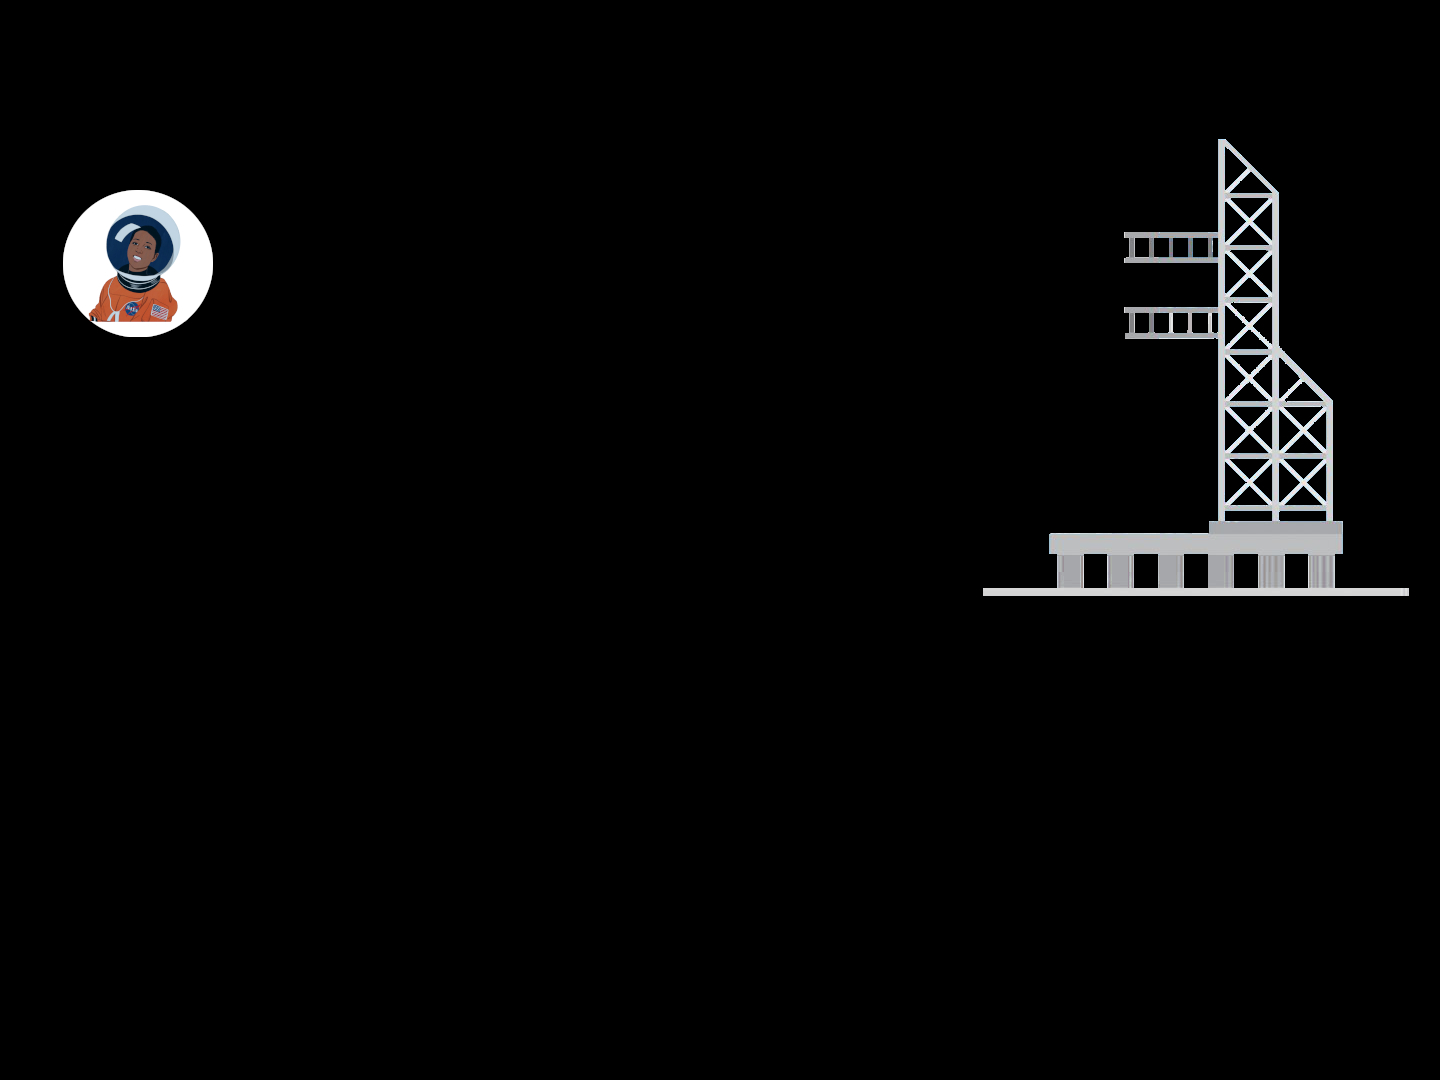
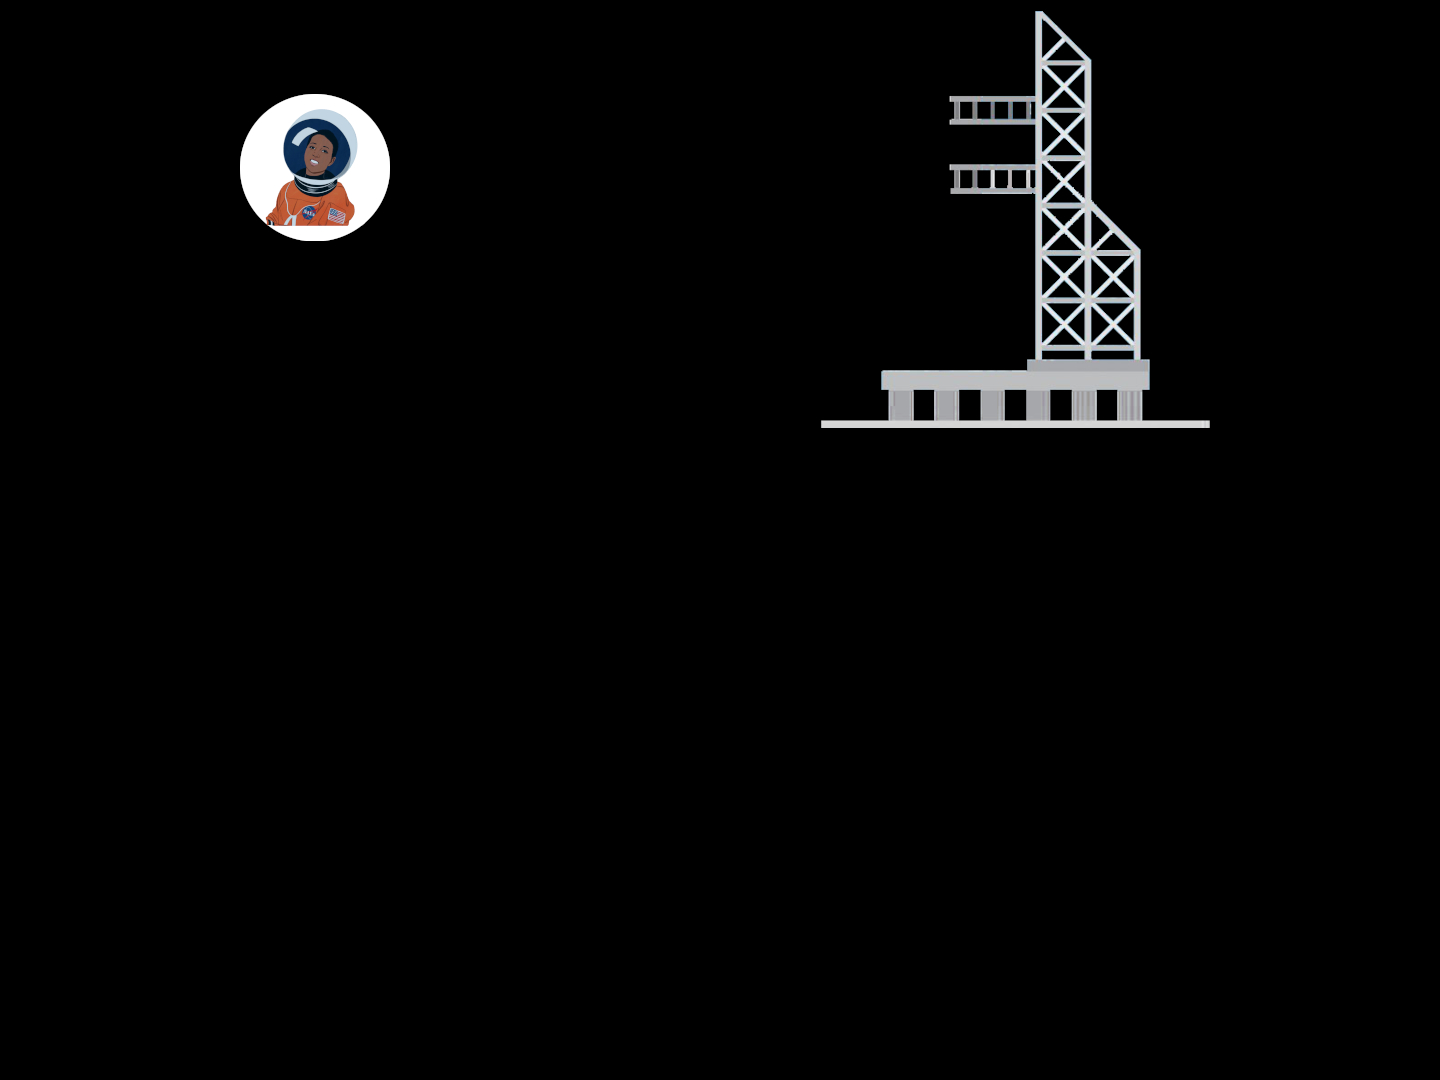
debug 2
new backgrounds and set scaling

Changed region(s): [[0.5625, 0.0, 0.9688, 0.55], [0.0312, 0.0917, 0.2812, 0.3361]]

diff --git a/index.html b/index.html
@@ -168,6 +168,8 @@ function createTrials(teaching, test_Sound, test_Link, tabletop) {
 
   function build_ship() {
 
+    document.body.style.backgroundSize = "auto";
+
     var build_instructions = {
       type: "audio-keyboard-response",
       stimulus: audioExt+"instruct-1-build.wav",
@@ -189,7 +191,7 @@ function createTrials(teaching, test_Sound, test_Link, tabletop) {
       stim_height: 150,
       stim_width: 150,
       sort_area_height: 500,
-      sort_area_width: 800,
+      sort_area_width: 600,
       set_background:'launch-pad-background',
       prompt: " ",
       button_label: "OK"
@@ -261,13 +263,15 @@ function createTrials(teaching, test_Sound, test_Link, tabletop) {
 
   function load_ship() {
 
+    document.body.style.backgroundSize = "auto";
+
     var load_instructions = {
       type: "audio-keyboard-response",
       stimulus: audioExt+"instruct-3-load.wav",
       trial_duration: 8650,
       response_ends_trial: false,
       choices:jsPsych.NO_KEYS,
-      set_background: 'launch-pad-ship-mae-background',
+      set_background: 'launch-pad-ship-background',
       prompt: " "
     }
 
@@ -281,7 +285,7 @@ function createTrials(teaching, test_Sound, test_Link, tabletop) {
       stimuli: items,
       sort_area_height: 500,
       sort_area_width: 800,
-      set_background:'launch-pad-ship-mae-background',
+      set_background:'launch-pad-ship-background',
       prompt: "<p>Help Mae load her space ship. Click and drag the pieces of the ship to the launch pad.</p>"
     };
 
